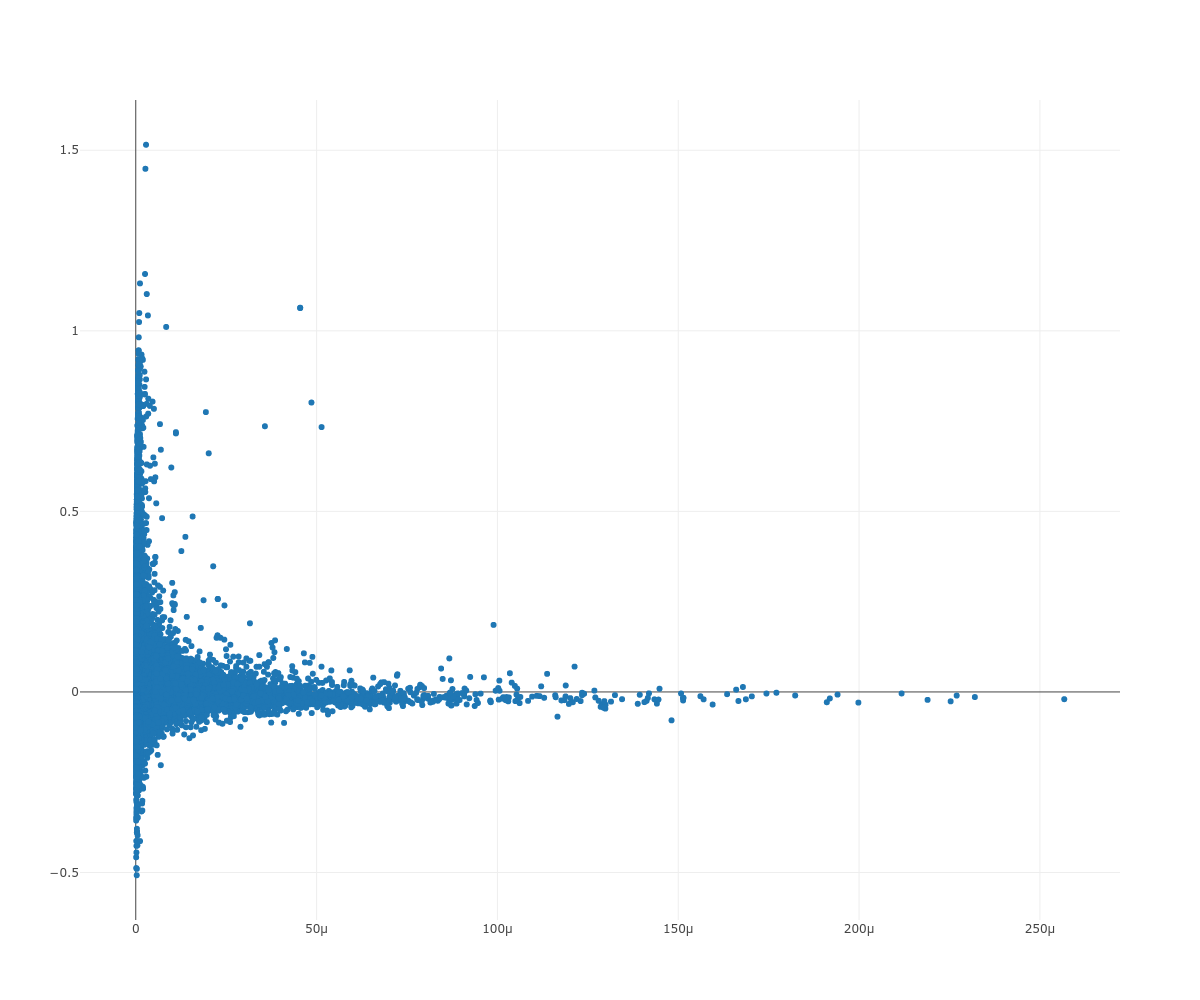
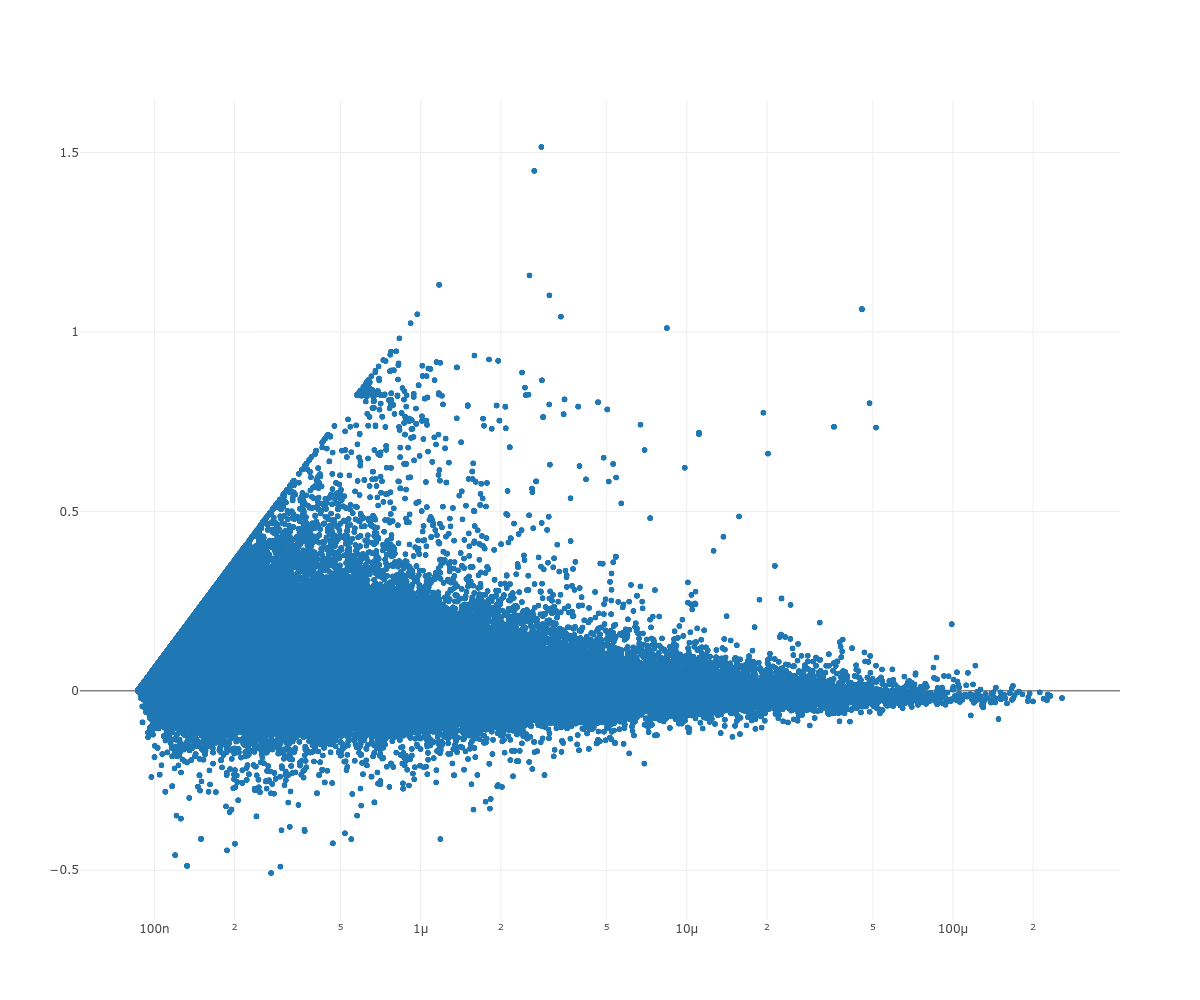
Quasi definitiva..

Changed region(s): [[0.0925, 0.279, 0.8942, 0.868], [0.4317, 0.372, 0.4625, 0.403], [0.4008, 0.403, 0.4317, 0.434]]

diff --git a/tesi.tex b/tesi.tex
@@ -20,6 +20,7 @@
 \newcommand{\pesiPagerankModificato}{pmod}
 \newcommand{\pagerank}{P}
 \newcommand{\pesiPagerank}{p}
+\newcommand{\citerank}{CiteRank}
 
 
 \title{Analisi di reti di citazioni tramite PageRank e relazioni di collaborazione}
@@ -82,9 +83,9 @@ Di seguito si fornisce una breve panoramica delle possibilità del linguaggio Cy
 I nodi del grafo sono rappresentati, nelle query Cypher, da un nome racchiuso tra due parentesi tonde (che rappresentano la circonferenza con cui si suole rappresentare i nodi nelle rappresentazioni grafiche dei grafi). La ricerca nel database si effettua attraverso l'istruzione MATCH seguita dall'oggetto da cercare.
 MATCH (a) seleziona tutti i nodi del grafo, che vengono rappresentati nella query dal nome "a". Sono selezionati tutti i nodi del grafo perché non sono presenti vincoli.
 MATCH (a: Author) seleziona, invece, i nodi che hanno come tipo Author. I tipi non vanno dichiarati precedentemente all'uso, ma lo schema è generato dinamicamente. Il tipo Author farà parte del database quando sarà creato il primo nodo di tale tipo.
-E' possibile filtrare ulteriormente utilizzando vincoli sui campi che possiede un dato nodo:
+\`E possibile filtrare ulteriormente utilizzando vincoli sui campi che possiede un dato nodo:
 MATCH (a: Author {name: "Giuseppe Rossi"}) seleziona tutti i nodi di tipo Author per cui esista un campo denominato ``name'' il cui valore sia la stringa "Giuseppe Rossi". Data l'assenza di una fase separata per la definizione dello schema della base di dati, nulla vieta di avere nodi di tipi diversi che abbiano campi con nomi e tipi diversi. Tuttavia, questa diversificazione può essere deleteria ad una buona gestione di una base di dati. A tal proposito Neo4j permette la definizione di vincoli che permettano, oltre che a mantenere dati i coerenti, a rendere efficienti le interrogazioni attraverso l'utilizzo di indici.
-Un vincolo utile per l'ottimizzazione delle query è quello di unicità. E' possibile aggiungere il vincolo di unicità attraverso una query Cypher:
+Un vincolo utile per l'ottimizzazione delle query è quello di unicità. \`E possibile aggiungere il vincolo di unicità attraverso una query Cypher:
 \begin{lstlisting}[keepspaces=true]
   CREATE CONSTRAINT ON (book:Book)
     ASSERT book.isbn IS UNIQUE
@@ -118,14 +119,14 @@ Per questo scopo esiste una seconda parola chiave del linguaggio Cypher, la paro
   ON CREATE SET c.times = 1
   ON MATCH  SET c.times = c.times + 1
 \end{lstlisting}
-Eseguendo questa query ripetutamente è possibile incrementare il contatore "times" associato all'arco. E' questo il caso, ad esempio dell'importazione batch di nodi e archi del grafo.
+Eseguendo questa query ripetutamente è possibile incrementare il contatore "times" associato all'arco. \`E questo il caso, ad esempio dell'importazione batch di nodi e archi del grafo.
 Neo4J permette l'importazione diretta attraverso la parola chiave Cypher LOAD CSV:
 \begin{lstlisting}
 LOAD CSV FROM 'file://artists.csv' AS line
 CREATE (:Artist { name: line[1], year: toInteger(line[2])})
 \end{lstlisting}
 Utilizzando la parola chiave LOAD CSV è possibile fare il parsing di un file di testo comma separated values e creare nodi durante la scansione. \\
-Il problema di tale pratica è che l'intera operazione viene fatta all'interno della stessa transazione. Nel caso di file csv di grandissime dimensioni questo può riempire la memoria. E' necessario uno strumento per dividere l'importazione in tante transazioni separate. \\
+Il problema di tale pratica è che l'intera operazione viene fatta all'interno della stessa transazione. Nel caso di file csv di grandissime dimensioni questo può riempire la memoria. \`E necessario uno strumento per dividere l'importazione in tante transazioni separate. \\
 Il linguaggio Cypher mette a disposizione la funzione ``USING PERIODIC COMMIT'' che, ricevendo un numero intero rappresentante la cardinalità di righe da computare prima di eseguire il commit, divide l'operazioni in tante, più piccole, e dunque gestibili, transazioni.
 
 \subsubsection{Le estensioni di Neo4J}
@@ -154,7 +155,7 @@ CALL apoc.algo.pageRankWithCypher({
 
 \par
 Sebbene le basi di dati di grafi, come Neo4J, offrano molte utilità per l'elaborazione dei grafi, tra cui linguaggi molto potenti per l'interrogazione, non hanno le performance adeguate a gestire grafi di milioni di nodi e centinaia di milioni di archi. \\
-E' stata, dunque, implementata una soluzione custom per importare i dati e per eseguire il PageRank sopra tali dati.
+\`E stata, dunque, implementata una soluzione custom per importare i dati e per eseguire il PageRank sopra tali dati.
 \end{enumerate}
 
 \section{La tecnica proposta}
@@ -193,9 +194,9 @@ Sia $G = (V, E)$ un grafo pesato e orientato. Si definisce PageRank: $P \in \mat
     \end{cases} 
 \end{equation*}
 
-\subsection{Esposizione della tecnica}
-Si propone di seguito la tecnica proposta il calcolo dello score per la classificazione degli autori. \\
-La tecnica consiste nel calcolo del PageRank dei nodi utilizzando, come pesi degli archi, il numero di citazioni prima e lo stesso numero di citazioni moltiplicato per un coefficiente peggiorativo. Una volta ottenuti questi due punteggi, la loro combinazione attraverso una funzione permette di ottenere il risultato finale.
+\subsection{L'algoritmo CiteRank}
+Si propone di seguito l'algoritmo proposto per il calcolo dello score per la classificazione degli autori. \\
+L'algoritmo consiste nel calcolo del PageRank dei nodi utilizzando, come pesi degli archi, il numero di citazioni prima e lo stesso numero di citazioni moltiplicato per un coefficiente peggiorativo. Una volta ottenuti questi due punteggi, la loro combinazione attraverso una funzione permette di ottenere il risultato finale.
 \par
 Il procedimento illustrato si compone dei seguenti passi:
 \begin{algorithm}
@@ -220,7 +221,7 @@ $pmod_{ij} = p_{ij} \dot (1 - c(i, j))$\;
 
 \begin{enumerate}
   \item 
-  Al primo passo della metodologia si calcola la matrice dei pesi del PageRank. \\
+  Al primo passo dell'algoritmo si calcola la matrice dei pesi del PageRank. \\
   Per ogni coppia di nodi $ (i, j) $, $ p_{ij} $ sarà uguale al numero di citazioni del nodo $ i $ ad articoli scritti dal nodo $ j $. 
   \item
   Si calcola poi il PageRank: 
@@ -360,8 +361,8 @@ Per ogni articolo sono presenti i seguenti campi: \\
 \hline venue & stringa & sede di pubblicazione & ``Neural Networks'' \\
 \hline year & intero & anno di pubblicazione & 1994 \\
 \hline n\_citation & intero & sede di pubblicazione & 24 \\
-\hline references & stringa & lista delle citazioni & [``013ea675-bb58-42f8-a423-f5534546b2b1'', ``c043e258-256f-4957-8ac5-899905eb4efd'']\\
-\hline abstract & stringa & sommario & ``In this work we propose schemes for joint modelorder and step-size adaptation of reduced-rank adaptive filters \ldots''\\
+% \hline references & stringa & lista delle citazioni & [``013ea675-bb58-42f8-a423-f5534546b2b1'', ``c043e258-256f-4957-8ac5-899905eb4efd'']\\
+% \hline abstract & stringa & sommario & ``In this work we propose schemes for joint modelorder and step-size adaptation of reduced-rank adaptive filters \ldots''\\
 \hline
 \end{tabularx}
 
@@ -572,7 +573,7 @@ Per evitare problemi di race conditions è stato utilizzato un array di lucchett
 \subsubsection{L'implementazione del PageRank}
 Lo stesso algoritmo PageRank è stato implementato massimizzando il parallelismo. L'algoritmo ha una complessità trattabile, il che lo rende, all'atto pratico, veloce da computare, anche su grafi di grandi dimensioni. La complessità temporale dell'algoritmo è, infatti, lineare rispetto al numero di archi.
 \par
-L'algoritmo utilizza una struttura dati parziale che serve alla normalizzazione. E' necessario calcolare la somma dei pesi di tutti gli archi uscenti da ogni nodo. Questa operazione viene fatta a monte del calcolo del PageRank. Per questo esiste una funzione pubblica denominata ``pageRank'' che calcola l'array ``sommaPesiUscenti'' e poi chiama la funzione privata ``pageRankImpl'' contenente l'implementazione:
+L'algoritmo utilizza una struttura dati parziale che serve alla normalizzazione. \`E necessario calcolare la somma dei pesi di tutti gli archi uscenti da ogni nodo. Questa operazione viene fatta a monte del calcolo del PageRank. Per questo esiste una funzione pubblica denominata ``pageRank'' che calcola l'array ``sommaPesiUscenti'' e poi chiama la funzione privata ``pageRankImpl'' contenente l'implementazione:
 \begin{lstlisting}[keepspaces=true]
 def pageRank(citati: Matrice[Int],
               pesiPageRank: Matrice[Double],
@@ -774,20 +775,16 @@ Infine si procede chiamando la funzione pageRank con l'implementazione classica:
 \section{Analisi dei dati}
 Utilizzando gli algoritmi descritti negli scorsi capitoli si sono svolte le analisi dei dati sperimentali.
 
-In primo luogo si sono messe in relazione le due misure del PageRank. Il risultato atteso è quello di avere due misure che variassero di poco. Questo perché il PageRank proposto non è che una variazione del PageRank classico. Quindi non ci si aspetta che un autore con un PageRank alto abbia un PageRank modificato drasticamente diverso.
+In primo luogo si sono messe in relazione le due misure del PageRank. Il risultato atteso è quello di avere due misure per cui fossero pochi i nodi con una variazione consistente. Questo perché il PageRank proposto non è che una variazione del PageRank classico. Non ci si aspetta, quindi, che un autore con un pagerank alto abbia un pagerank modificato drasticamente diverso.
 \begin{figure}[H]
-  \includegraphics[width=\linewidth]{images/grafico-1.png}
+  \includegraphics[width=0.7\linewidth]{images/grafico-1.png}
   \caption{Scatter plot dei due PageRank messi in relazione}
 \end{figure}
 \subsection{Rappresentazioni dello score}
-Guardando il grafico precedentemente, che mostra come lo scostamento delle due varianti del PageRank sia molto basso, ci si aspetta che la loro differenza si discosti poco dallo zero. Anche per questo motivo si è scelto l'utilizzo della differenza logaritmica come funzione di scoring. Si mostra, dunque, la relazione tra valori di PageRank crescenti e lo score relativo.
+Guardando il grafico precedentemente, che mostra come lo scostamento delle due varianti del PageRank sia molto basso per la maggior parte dei nodi, ci si aspetta che la loro differenza si discosti poco dallo zero. Anche per questo motivo si è scelto l'utilizzo della differenza logaritmica come funzione di scoring. Perché si vuole dare stesso peso alle variazioni di pagerank a prescindere dall'ordine di grandezza considerato. \\
+Si mostra, dunque, la relazione tra valori di PageRank crescenti e lo score relativo su scala logaritmica.
 \begin{figure}[H]
-  \includegraphics[width=\linewidth]{images/grafico-2.png}
-  \caption{Scatter plot dei due PageRank messi in relazione}
-\end{figure}
-Si può apprezzare meglio come si distribuisce lo score visualizzando i PageRank crescenti su scala logaritmica:
-\begin{figure}[H]
-  \includegraphics[width=\linewidth]{images/grafico-3.png}
+  \includegraphics[width=0.8\linewidth]{images/grafico-2.png}
   \caption{Scatter plot dei due PageRank messi in relazione}
 \end{figure}
 Il valore del PageRank, pur non essendo linearmente proporzionale al numero di archi entranti (sappiamo che viene calcolato in base al PageRank dei nodi da cui provengono i suoi archi entranti), è strettamente legato al numero di archi entranti.
@@ -797,8 +794,43 @@ Il valore del PageRank, pur non essendo linearmente proporzionale al numero di a
   \caption{Scatter plot dei due PageRank messi in relazione}
 \end{figure}
 
+\subsection{Considerazioni}
+A partire dai grafici precedentemente esposti si possono fare alcune considerazioni.
+\par
+\subsubsection{Comportamento dello score nei nodi con PageRank elevato}
+Si può notare come i nodi con un grande numero di citazioni tendono ad avere uno score mediamente inferiore allo zero. Ci si aspetta un comportamento simile perché è inverosimile che un grandissimo numero di citazioni possa provenire dalla rete di collaborazione di un nodo. L'algoritmo, quindi, attenuando il punteggio dei nodi in cui le citazioni provenienti dalla rete di collaborazione sono numericamente predominanti sul numero di citazioni totali, cede le quantità prelevate agli altri nodi.
+\begin{figure}[H]
+  \includegraphics[width=0.6\linewidth]{images/grafico-4.png}
+  \caption{Tendenza dei nodi con valori di PageRank alti}
+\end{figure}
+
+\subsubsection{Analisi degli outliers}
+Analizzando alcuni dei nodi outliers si possono fare alcune considerazioni:
+\begin{figure}[H]
+  \includegraphics[width=0.7\linewidth]{images/grafico-5.png}
+  \caption{Scelta degli outliers considerando la funzione di scoring logaritmica}
+\end{figure}
 \medskip
- 
+\begin{enumerate}
+  \item Considerando i nodi outliers nel semipiano positivo presi tra i nodi aventi numero totale di citazioni alto, è possibile individuare nodi con una rete di collaborazione che offre un contributo rilevante nell'apporto di citazioni: \\
+  preso come esempio il nodo con $\#1$, esso possiede un punteggio PageRank elevato, pari a $1.48$x$10^{-4}$. Il suo score si distingue da quelli con suo stesso ranking e da quelli con suo stesso numero di citazioni totali. Questo perché esso possiede molte citazioni nei confronti di molti dei suoi nodi citanti. Possiede 261 citazioni a molti autori che sono o suoi coautori o che hanno citato suoi articoli.
+  \item Essere collaboratori di un nodo con pagerank alto ha l'effetto, secondo la semantica dell'algoritmo originale, di ottenere un incremento notevole del proprio punteggio.
+  Preso in esame il nodo con score (differenza logaritmica) massimo, il nodo $\#2$, si scopre che esso ha un'autocitazione e una citazione da autore con pagerank dell'ordine di $10^{-6}$. Questo fa schizzare il suo PageRank anche nell'ordine di $10^{-6}$. Il PageRank modificato, invece, non considerando le autocitazioni e dando contributo peggiorativo alla citazione del nodo nei confronti del nodo citante, abbassa il suo pagerank nell'ordine di $10^{-8}$, pagerank che avrebbe dovuto avere senza la citazione proveniente dalla sua collaborazione.
+  \item Il peggioramento dello score si espande sui vicini. Per come è strutturato l'algoritmo PageRank, esso si basa sul pagerank dei vicini per valutare il pagerank del nodo in oggetto. Va da sè che se il pagerank dei vicini di un nodo è molto variato per un rilevante numero di citazioni nella rete di collaborazione, anche il pagerank di un nodo che lavora in autonomia viene peggiorato. \\
+  Tuttavia questa condizione si osserva per pochi outliers.
+  \item L'algoritmo non considera negativa la collaborazione di per sè; infatti le citazioni dei coautori sono considerate nel coefficiente peggiorativo solo quando sono numerose in proporzione al numero totale di collaborazione. Una coppia di autori che collabora, le cui citazioni sono solo in piccola parte derivanti tale collaborazione non sono danneggiati nello score.
+\end{enumerate}
+
+\section{Sviluppi futuri}
+Il lavoro proposto mette in luce come, valutando quanto la rete collaborazione degli autori influisce nelle citazioni, ci si può avvicinare a valutare la reale visibilità degli autori.
+Attraverso una procedura ``qualitativa'' è possibile individuare gli outliers e verificare che corrispondono al profilo designato nella stesura dell'algoritmo. \\
+Tuttavia è assente un procedimento matematico per l'identificazione degli outliers. Tale identificazione si potrà ottenere in due modi: \begin{enumerate}
+  \item rendendo la funzione di scoring, al momento pari alla differenza logaritmica utilizzata per dare peso eguale agli outliers in ordini di grandezza differenti, tale da peso costante agli outliers presenti ad ogni numero di citazioni.
+  \item definendo una seconda funzione matematica capace di definire una  curva capace di definire univocamente i veri outliers (curva che è stata rappresentata in maniera qualitativa nell'analisi dei risultati precentente).
+\end{enumerate}
+Un altro possibile sviluppo è l'estensione dello studio ad altri database, come il database di bibliometrico PubMed relativo alla letteratura biomedica, per verificare la presenza degli stessi pattern e verificare, dunque, che i risultati esposti non sono frutto della configurazione del particolare caso preso in oggetto.
+
+
 \bibliographystyle{unsrt}
 \bibliography{tesi}
 \end{document}
